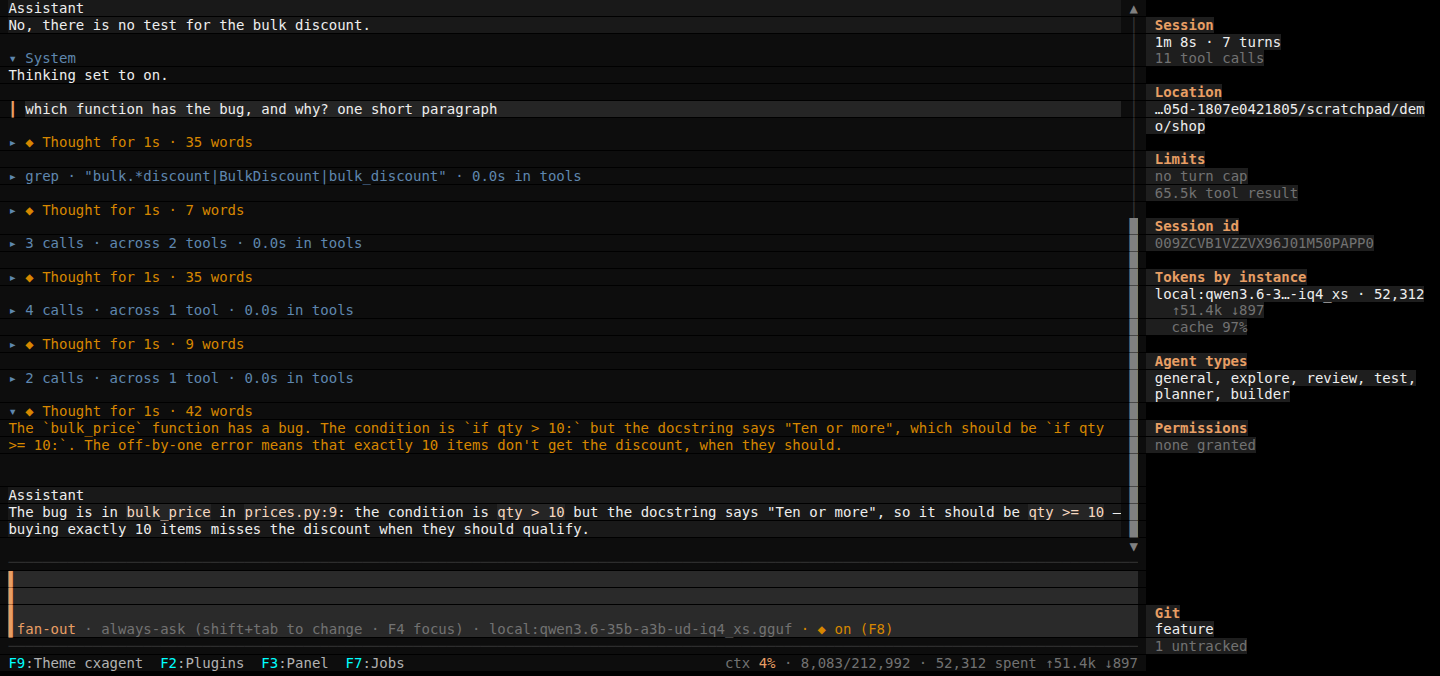
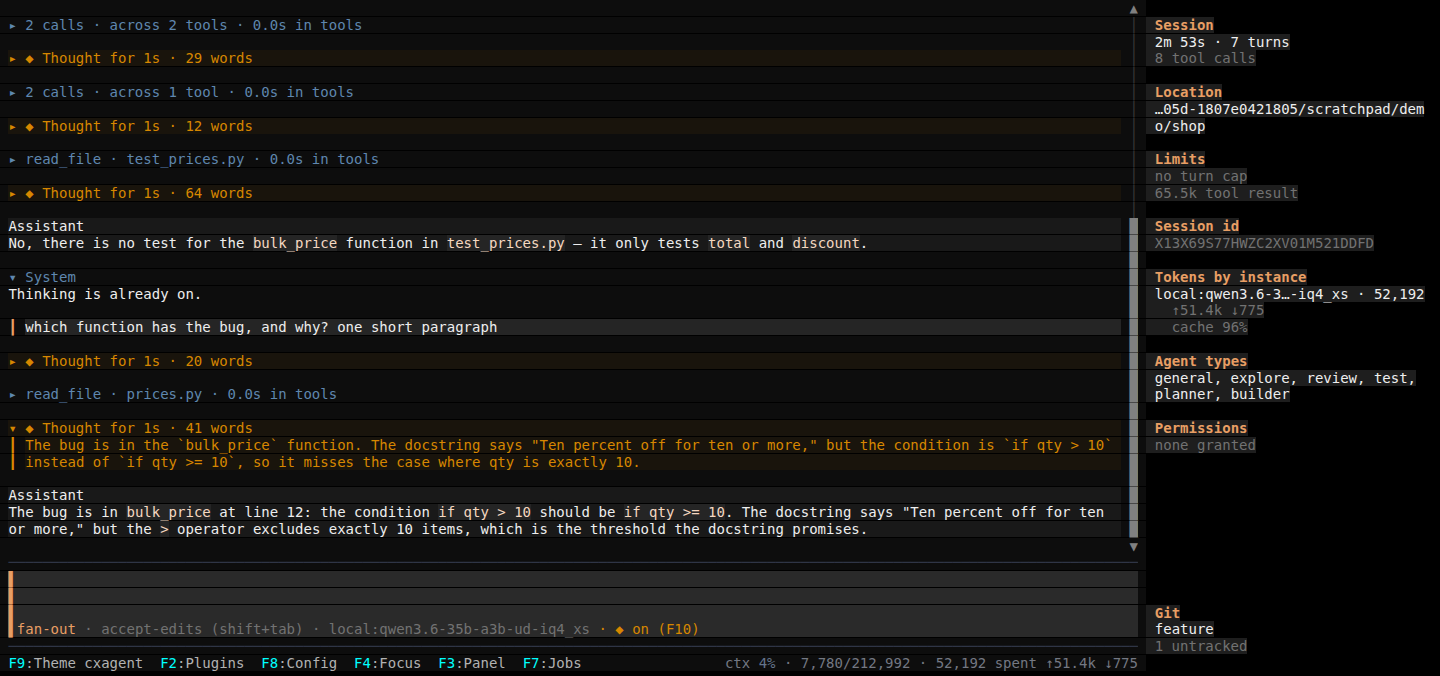
Retake the thinking capture and add configuration to the site's explorer
The walkthrough's thinking capture showed the level on (F8), which is
now Configuration; the retake shows (F10) and F8:Config. The homepage
explorer linked that capture from site/screenshots, where it was never
copied, so its Thinking pane showed no image; it is there now, beside a
new Configuration pane with the dialog's capture.

diff --git a/site/index.html b/site/index.html
@@ -101,6 +101,7 @@
       <button type="button" class="exp-item" role="tab" id="tab-31-headless" aria-controls="pane-31-headless"><span class="exp-icon">&#9881;&#65039;</span><span>Headless</span></button>
       <button type="button" class="exp-item" role="tab" id="tab-32-custom-commands" aria-controls="pane-32-custom-commands"><span class="exp-icon">&#128221;</span><span>Your commands</span></button>
       <button type="button" class="exp-item" role="tab" id="tab-33-thinking" aria-controls="pane-33-thinking"><span class="exp-icon">&#128161;</span><span>Thinking</span></button>
+      <button type="button" class="exp-item" role="tab" id="tab-34-configuration" aria-controls="pane-34-configuration"><span class="exp-icon">&#128295;</span><span>Configuration</span></button>
       </div>
       <div class="exp-body" id="panels">
       <div class="exp-pane" role="tabpanel" id="pane-session-overview" aria-labelledby="tab-session-overview">
@@ -163,11 +164,15 @@
         <div class="exp-shot"><a href="screenshots/33-thinking.png" title="Open the full-size capture"><img src="screenshots/33-thinking.png" alt="Each step's thinking folded between its tool calls, the latest opened, and the thinking level on the mode line" loading="lazy"></a></div>
         <div class="exp-text"><h3>What it thought, and how hard</h3><p>Each step that thought gets its own block, open while it streams and folded once the step moves on, so a run reads as thought, calls, thought, answer. <code>Ctrl+O</code> opens the latest; any other is a click away.</p><p class="exp-aside"><code>F10</code> and <code>/think</code> set the level the model offers — on or off for a llama.cpp server, low to max for Claude.</p></div>
       </div>
+      <div class="exp-pane" role="tabpanel" id="pane-34-configuration" aria-labelledby="tab-34-configuration">
+        <div class="exp-shot"><a href="screenshots/34-configuration.png" title="Open the full-size capture"><img src="screenshots/34-configuration.png" alt="The configuration dialog on its Providers tab: the instances on the left with the default starred, the selected one's endpoint, model, masked key and thinking level beside it" loading="lazy"></a></div>
+        <div class="exp-text"><h3>Providers, servers and agents, in the app</h3><p><code>F8</code> opens one dialog for providers, MCP servers and sub-agent types. A new provider starts from a card — Anthropic, OpenRouter, OpenAI, Ollama, llama.cpp or any OpenAI-compatible endpoint — and its model is picked from what that endpoint serves, with each model's window and, on OpenRouter, its price.</p><p class="exp-aside">A save is live. What the model cannot see — a new key, the reviewer, the default — applies in place; a new model would re-send each open tab's conversation, so you are asked how and when.</p></div>
+      </div>
       </div>
     </div>
   </div>
 
-  <p class="note" style="margin-top:1rem"><a href="docs/walkthrough.html">Twenty more, with the full walkthrough →</a></p>
+  <p class="note" style="margin-top:1rem"><a href="docs/walkthrough.html">Twenty-one more, with the full walkthrough →</a></p>
 </section>
 
 <section id="why">

diff --git a/docs/screenshots/README.md b/docs/screenshots/README.md
@@ -417,7 +417,7 @@ skipped and why.
 ![A run on a local model with each step's thinking folded between its tool calls, the latest opened with Ctrl+O, and the mode line showing the thinking level](33-thinking.png)
 
 The same repository, on a local Qwen served by llama.cpp. Each step that thought has its own block,
-placed before what that step did: open while the thinking streams, folded to `◆ Thought for 1s · 35
+placed before what that step did: open while the thinking streams, folded to `◆ Thought for 1s · 29
 words` as soon as the step moves on. The run reads as thought, calls, thought, calls, answer.
 
 `Ctrl+O` opened the latest block — the reasoning behind the answer under it. The others open with a
